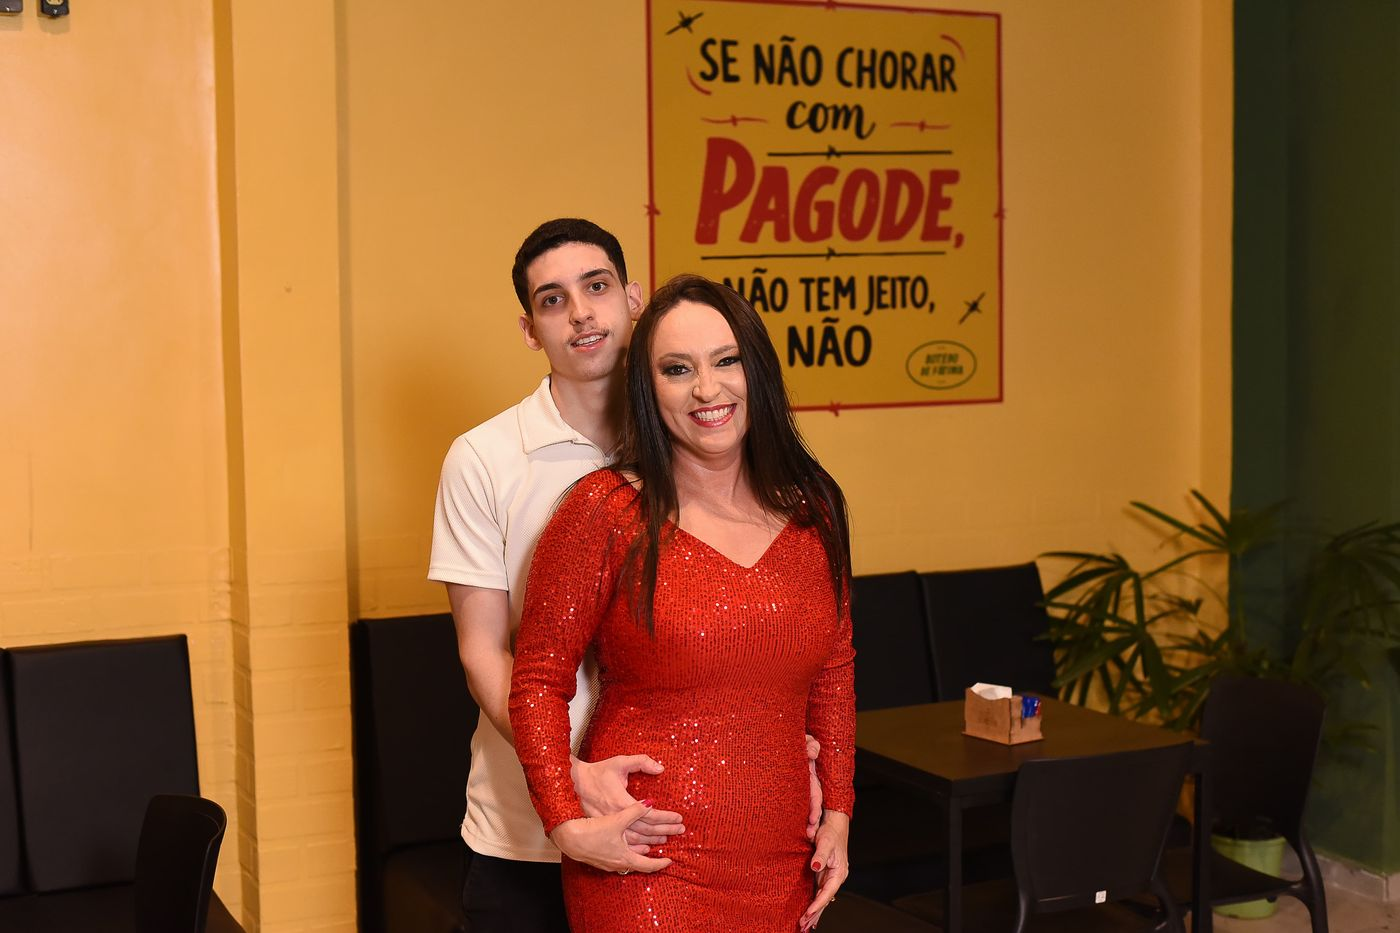
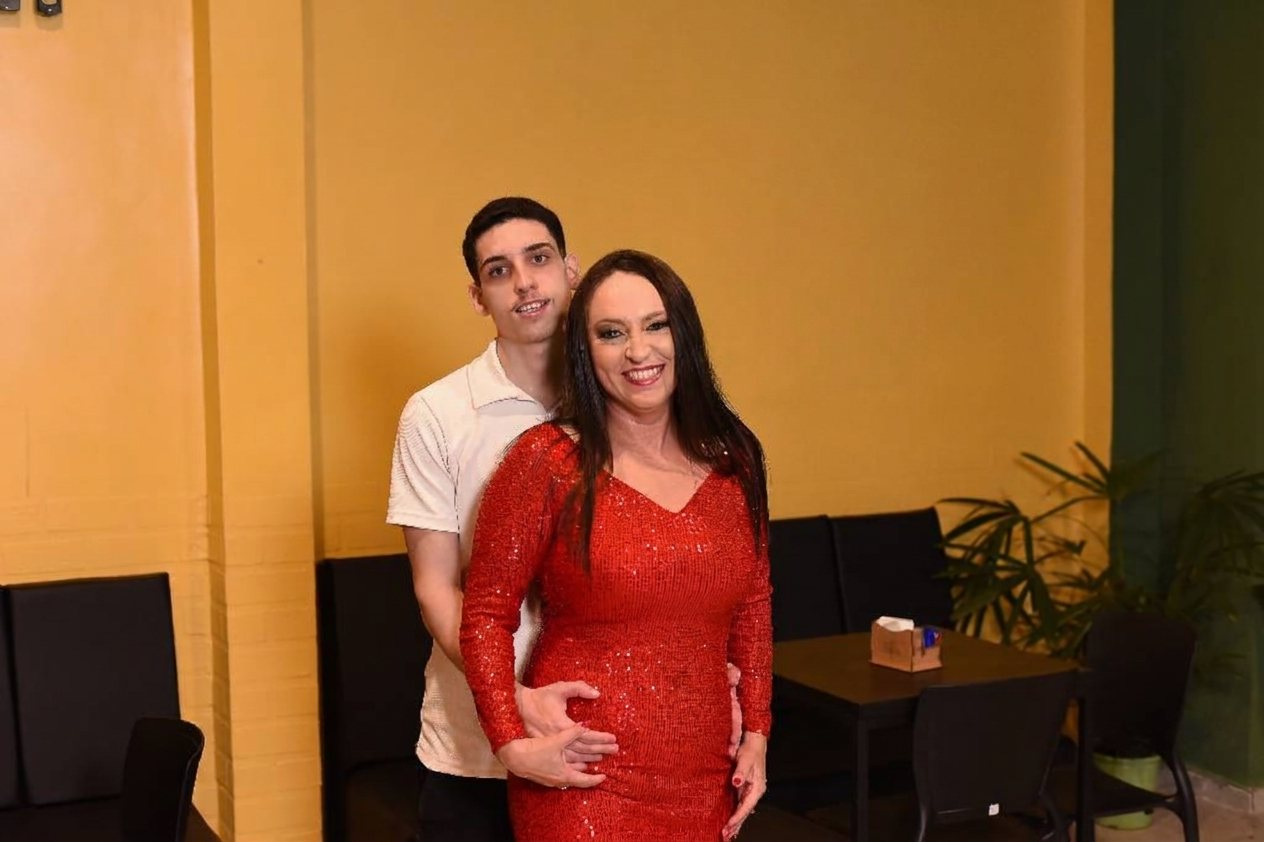
Fotos da equipe sem o quadro de fundo

diff --git a/index.html b/index.html
@@ -262,22 +262,22 @@
 
                     <div class="team-gallery">
                         <a class="team-photo team-photo--duo" href="img/equipe/diele-e-walterdes.jpg">
-                            <img src="img/equipe/diele-e-walterdes.jpg" alt="Diele Melo e Walterdes Junior juntos" loading="lazy" width="1400" height="933">
+                            <img src="img/equipe/diele-e-walterdes.jpg" alt="Diele Melo e Walterdes Junior juntos" loading="lazy" width="1264" height="842">
                             <span class="team-photo__tag">Diele Melo &amp; Walterdes Junior</span>
                             <span class="team-photo__zoom" aria-hidden="true"><svg class="icon"><use href="#i-expand"/></svg></span>
                         </a>
                         <a class="team-photo team-photo--diele" href="img/equipe/diele-melo.jpg">
-                            <img src="img/equipe/diele-melo.jpg" alt="Diele Melo de vestido vermelho" loading="lazy" width="933" height="1400">
+                            <img src="img/equipe/diele-melo.jpg" alt="Diele Melo de vestido vermelho" loading="lazy" width="842" height="1264">
                             <span class="team-photo__tag">Diele Melo <small>Corretora de seguros</small></span>
                             <span class="team-photo__zoom" aria-hidden="true"><svg class="icon"><use href="#i-expand"/></svg></span>
                         </a>
                         <a class="team-photo team-photo--wj1" href="img/equipe/walterdes-1.jpg">
-                            <img src="img/equipe/walterdes-1.jpg" alt="Walterdes Junior em pé" loading="lazy" width="933" height="1400">
+                            <img src="img/equipe/walterdes-1.jpg" alt="Walterdes Junior em pé" loading="lazy" width="842" height="1264">
                             <span class="team-photo__tag">Walterdes Junior</span>
                             <span class="team-photo__zoom" aria-hidden="true"><svg class="icon"><use href="#i-expand"/></svg></span>
                         </a>
                         <a class="team-photo team-photo--wj2" href="img/equipe/walterdes-2.jpg">
-                            <img src="img/equipe/walterdes-2.jpg" alt="Walterdes Junior de braços cruzados" loading="lazy" width="933" height="1400">
+                            <img src="img/equipe/walterdes-2.jpg" alt="Walterdes Junior de braços cruzados" loading="lazy" width="842" height="1264">
                             <span class="team-photo__zoom" aria-hidden="true"><svg class="icon"><use href="#i-expand"/></svg></span>
                         </a>
                     </div>

diff --git a/styles.css b/styles.css
@@ -1080,7 +1080,7 @@ body:not([data-page='home']) .navbar {
 }
 
 .team-photo--wj2 img {
-    object-position: 50% 25%;
+    object-position: 50% 36%;
 }
 
 .team-photo__tag {
